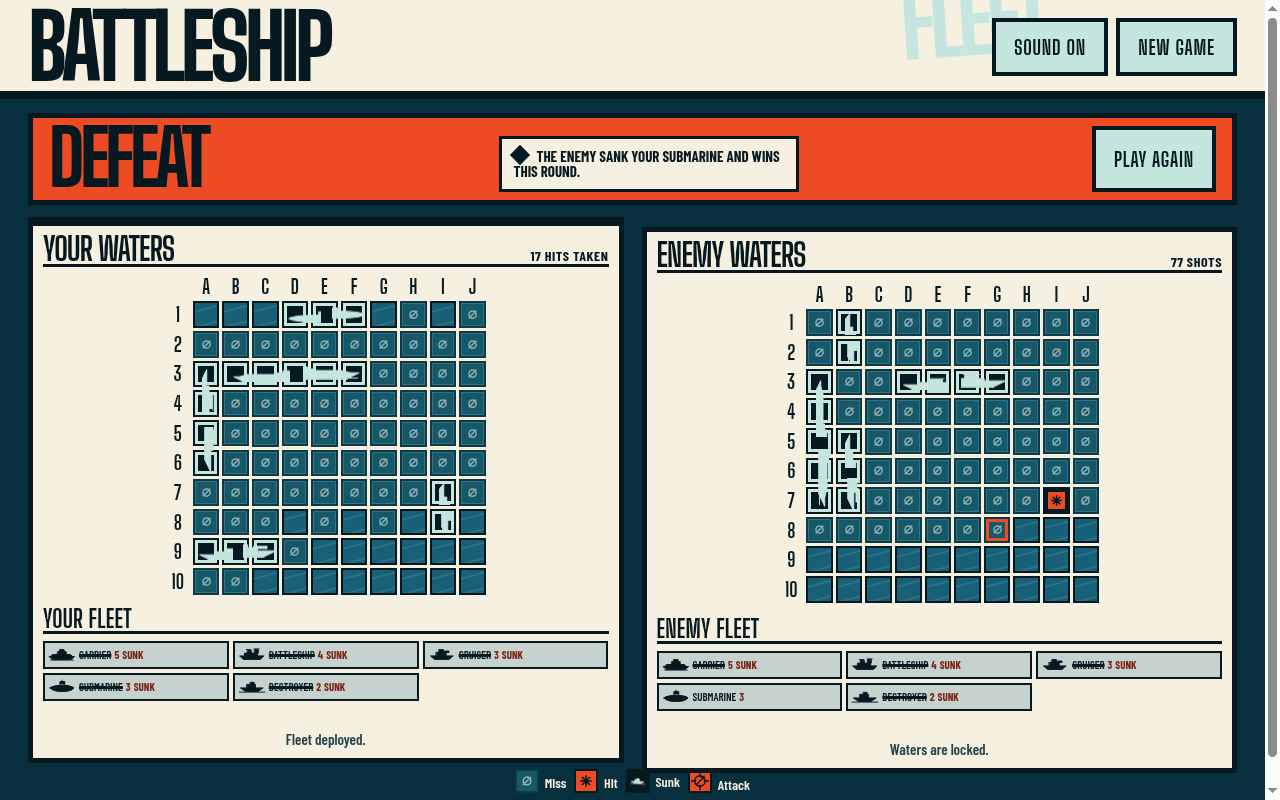
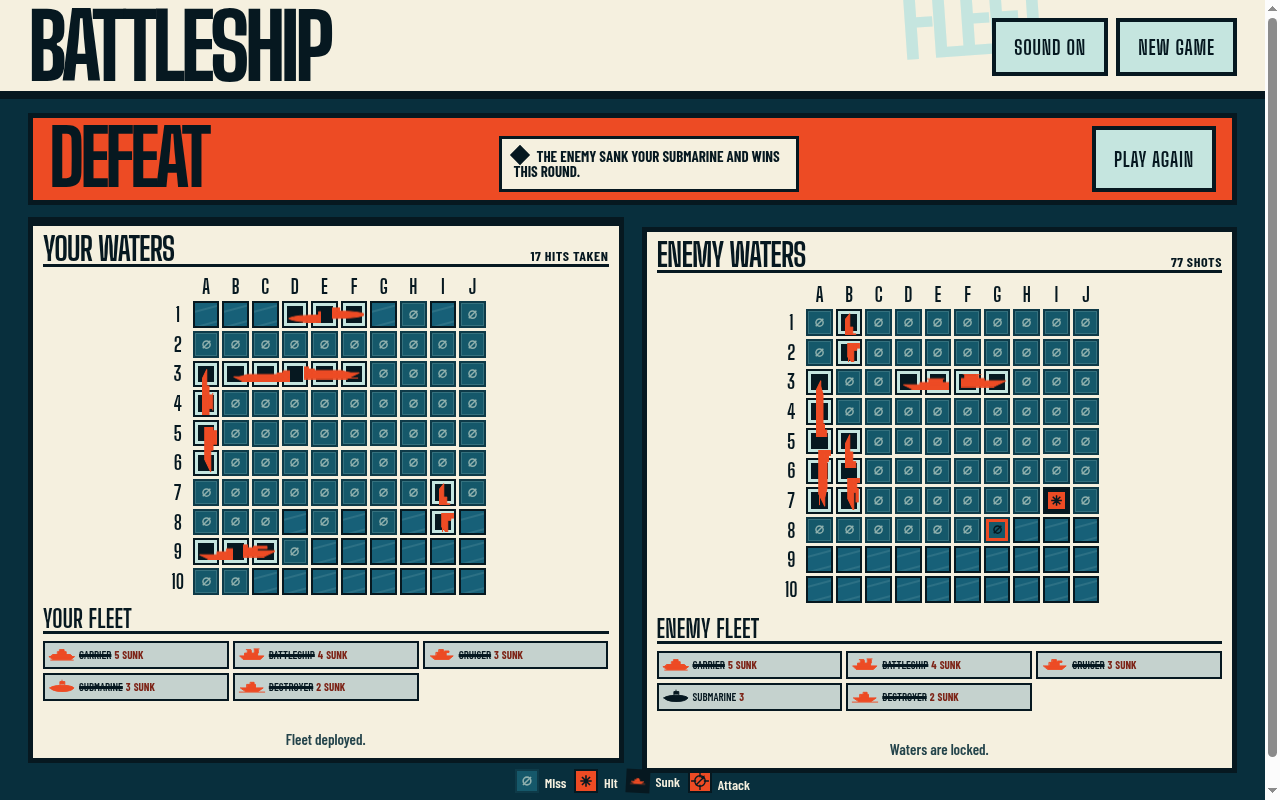
Color sunk wrecks orange

diff --git a/src/styles.css b/src/styles.css
@@ -366,6 +366,10 @@ kbd {
   text-decoration-thickness: 3px;
 }
 
+.fleet-sunk .ship-icon {
+  color: var(--orange);
+}
+
 .boards {
   align-items: stretch;
   gap: 18px;
@@ -578,6 +582,7 @@ kbd {
 .cell-vessel-wreck {
   height: 66%;
   clip-path: inset(0 6px 0 0);
+  color: var(--foam);
 }
 
 .cell-vessel-half .ship-icon {
@@ -607,18 +612,22 @@ kbd {
 
 @keyframes wreck-half-a {
   from {
+    color: var(--foam);
     transform: translate(0, 0);
   }
   to {
+    color: var(--orange);
     transform: translate(-3px, 2px);
   }
 }
 
 @keyframes wreck-half-b {
   from {
+    color: var(--foam);
     transform: translate(0, 0);
   }
   to {
+    color: var(--orange);
     transform: translate(3px, -2px);
   }
 }
@@ -756,7 +765,7 @@ kbd {
 
 .legend-sunk {
   background: var(--black);
-  color: var(--foam);
+  color: var(--orange);
   transform: rotate(3deg);
 }
 
@@ -850,6 +859,10 @@ kbd {
   .cell-vessel-half-b {
     animation: none !important;
     animation-duration: 0s !important;
+  }
+
+  .cell-vessel-wreck {
+    color: var(--orange);
   }
 
   .cell-aiming {

diff --git a/DESIGN.md b/DESIGN.md
@@ -34,10 +34,11 @@ active call to action and combat states.
 - A newly sunk vessel fractures into two authored flat-profile halves over
   roughly 620ms: a hard 10px central gap opens, the halves separate with
   opposing 3px horizontal and 2px vertical translations, and the
-  full-opacity halves remain at full scale as a readable wreck. The wreck
-  profile uses a 66% cross-axis height plus a 6px trailing clip so the
-  translated silhouette stays inside its cell run. Reduced motion skips
-  directly to that broken resting state.
+  full-opacity halves remain at full scale as a readable wreck, transitioning
+  from foam to burnt orange. The wreck profile uses a 66% cross-axis height
+  plus a 6px trailing clip so the translated silhouette stays inside its cell
+  run. Reduced motion skips directly to the final orange resting state. Fleet
+  and legend sunk silhouettes use the same orange wreck color.
 - Fired states stay value-separated on petrol water: a quiet flattened-water
   miss, hot orange hit, and dead ink sunk. The legend mirrors the exact
   authored marks, and fleet chips use a compact three-column/two-row rhythm at
